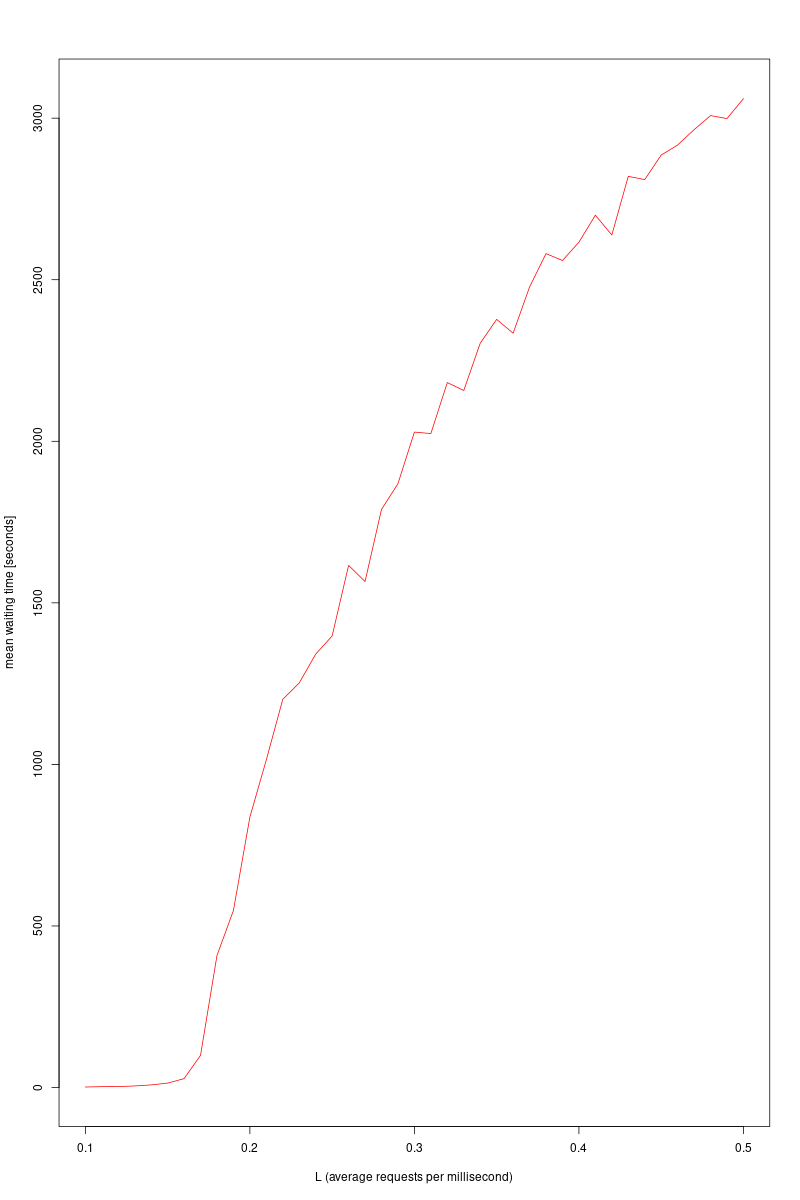
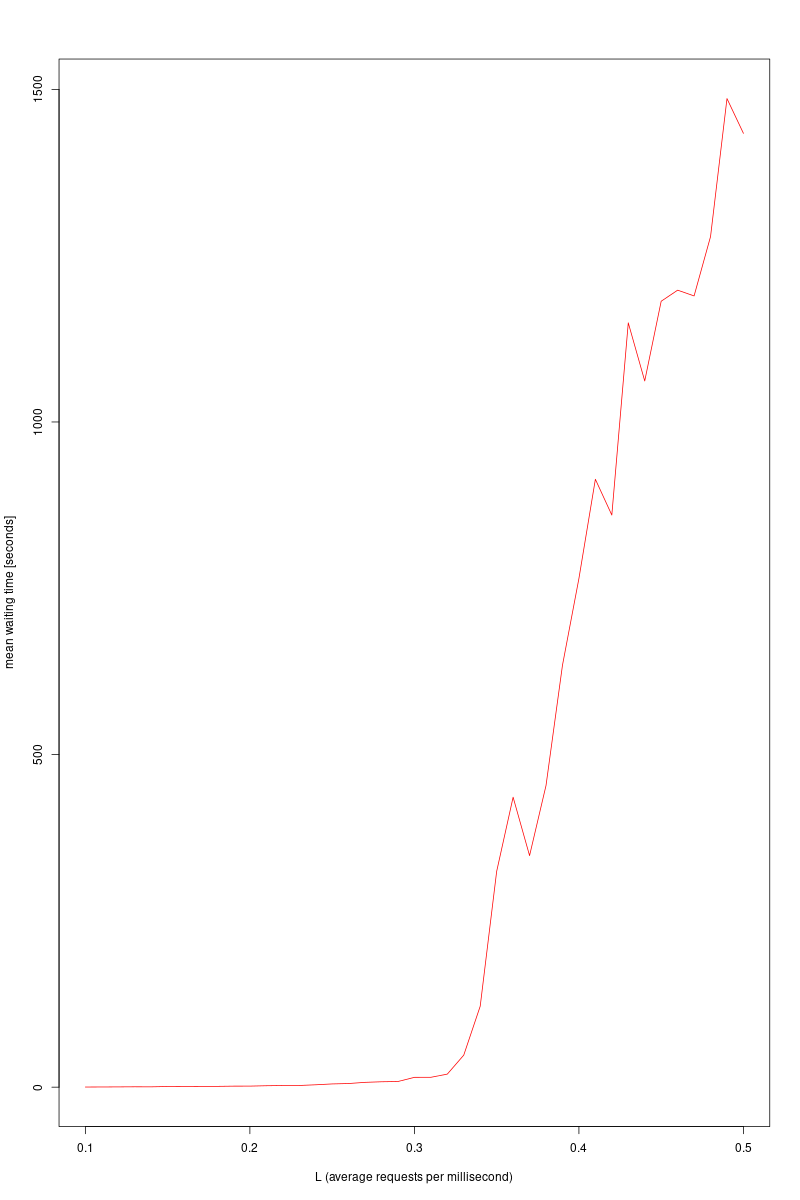
Fix

diff --git a/computer-simulation/write-up-2/main.tex b/computer-simulation/write-up-2/main.tex
@@ -189,8 +189,8 @@ Ponadto zgodnie z założeniami połowa zapytań to zapytania DNS, druga połowa
     simmer("servers") %>%
       add_resource("dns_html", 3) %>%
       add_resource("html", 2) %>%
-      add_generator("dns", dns, function() rexp(1, q)) %>%
-      add_generator("html", html, function() rexp(1, q)) %>%
+      add_generator("dns", dns, function() rexp(1, q) * 2) %>%
+      add_generator("html", html, function() rexp(1, q) * 2) %>%
       run(10000) %>%
       wrap()
   }, mc.cores = parallel::detectCores())
@@ -223,7 +223,7 @@ Ponadto, nawet jeśli sam load balancer nie przetwarza zapytań ich przekierowan
 
 \chapter*{Zadanie 2}
 
-O ile procent wzrośnieśredniczas oczekiwania na przetworzenie zapytaniagdy awarii ulegnie:
+O ile procent wzrośnie średni czas oczekiwania na przetworzenie zapytania gdy awarii ulegnie:
 \begin{itemize}
   \item Jeden serwer HTML?
   \item Dwa serwery HMTL+DNS?
@@ -265,8 +265,8 @@ Sama symulacja realizowana jest w sposób analogiczny do kodu z zadania nr 1.
       simmer("servers") %>%
         add_resource("dns_html", num_dns_html) %>%
         add_resource("html", num_html) %>%
-        add_generator("dns", dns, function() rexp(1, q)) %>%
-        add_generator("html", html, function() rexp(1, q)) %>%
+        add_generator("dns", dns, function() rexp(1, q) * 2) %>%
+        add_generator("html", html, function() rexp(1, q) * 2) %>%
         run(10000) %>%
         wrap()
     }, mc.cores = parallel::detectCores())
@@ -276,7 +276,9 @@ Sama symulacja realizowana jest w sposób analogiczny do kodu z zadania nr 1.
   
     mean_waiting_time <- c()
     for (i in 1:max(results$replication)){
-      mean_waiting_time[i] <- mean(results$waiting_time[results$replication == i])
+      mean_waiting_time[i] <- mean(
+        results$waiting_time[results$replication == i]
+      )
     }
   
     return(mean_waiting_time)
@@ -285,24 +287,36 @@ Sama symulacja realizowana jest w sposób analogiczny do kodu z zadania nr 1.
   original_waiting_time_vector <- run_simulation(3, 2, "shortest-queue")
   original_waiting_time <- mean(original_waiting_time_vector)
   
-  one_html_failed_waiting_time <- mean(run_simulation(3, 1, "shortest-queue"))
-  two_dns_html_failed_waiting_time <- mean(run_simulation(1, 2, "shortest-queue"))
+  one_html_failed_waiting_time <- mean(
+    run_simulation(3, 1, "shortest-queue")
+    )
+  two_dns_html_failed_waiting_time <- mean(
+    run_simulation(1, 2, "shortest-queue")
+    )
   random_lb_waiting_time <- mean(run_simulation(3, 2, "random"))
   
-  percentage_increase_one_html_failed <- ((one_html_failed_waiting_time - original_waiting_time) / original_waiting_time) * 100
+  percentage_increase_one_html_failed <- (
+    (
+      one_html_failed_waiting_time - original_waiting_time
+    ) / original_waiting_time
+  ) * 100
   
   percentage_increase_two_dns_html_failed <- (
-    (two_dns_html_failed_waiting_time - original_waiting_time) / original_waiting_time
+    (
+      two_dns_html_failed_waiting_time - original_waiting_time
+    ) / original_waiting_time
   ) * 100
+  
   percentage_increase_random_lb <- (
     (random_lb_waiting_time - original_waiting_time) / original_waiting_time
   ) * 100
   
-  cat("Percentage increase in waiting time with one HTML server failure:", 
+  cat("Percentage increase with one HTML server failure:", 
       percentage_increase_one_html_failed, "%\n")
-  cat("Percentage increase in waiting time with two DNS+HTML server failures:", 
+  cat("Percentage increase with two DNS+HTML server failures:", 
       percentage_increase_two_dns_html_failed, "%\n")
-  cat("Percentage increase in waiting time with random load balancer:", percentage_increase_random_lb, "%\n")
+  cat("Percentage increase with random load balancer:",
+   percentage_increase_random_lb, "%\n")
   
   plot(L_values, original_waiting_time_vector, type="l", col="red",
         xlab="L (average requests per millisecond)", 
@@ -316,9 +330,9 @@ Główna różnica polega na dodaniu obliczeń związanych z obliczaniem wartoś
 
 Dla przedstawionych sceneriuszy procentowy wzrost średniego czasu oczekiwania dla zapytań wynosi:
 \begin{itemize}
-  \item Awaria pojedynczego serwera HTML: 15.78671\%
-  \item Awaria dwóch serwerów DNS+HTML: 75.96218\%
-  \item Awaria load balancera: 12.41789\%
+  \item Awaria pojedynczego serwera HTML: 86.32795\%
+  \item Awaria dwóch serwerów DNS+HTML: 311.8372\%
+  \item Awaria load balancera: 28.23808\%
 \end{itemize}
 
 \section*{Wnioski}
